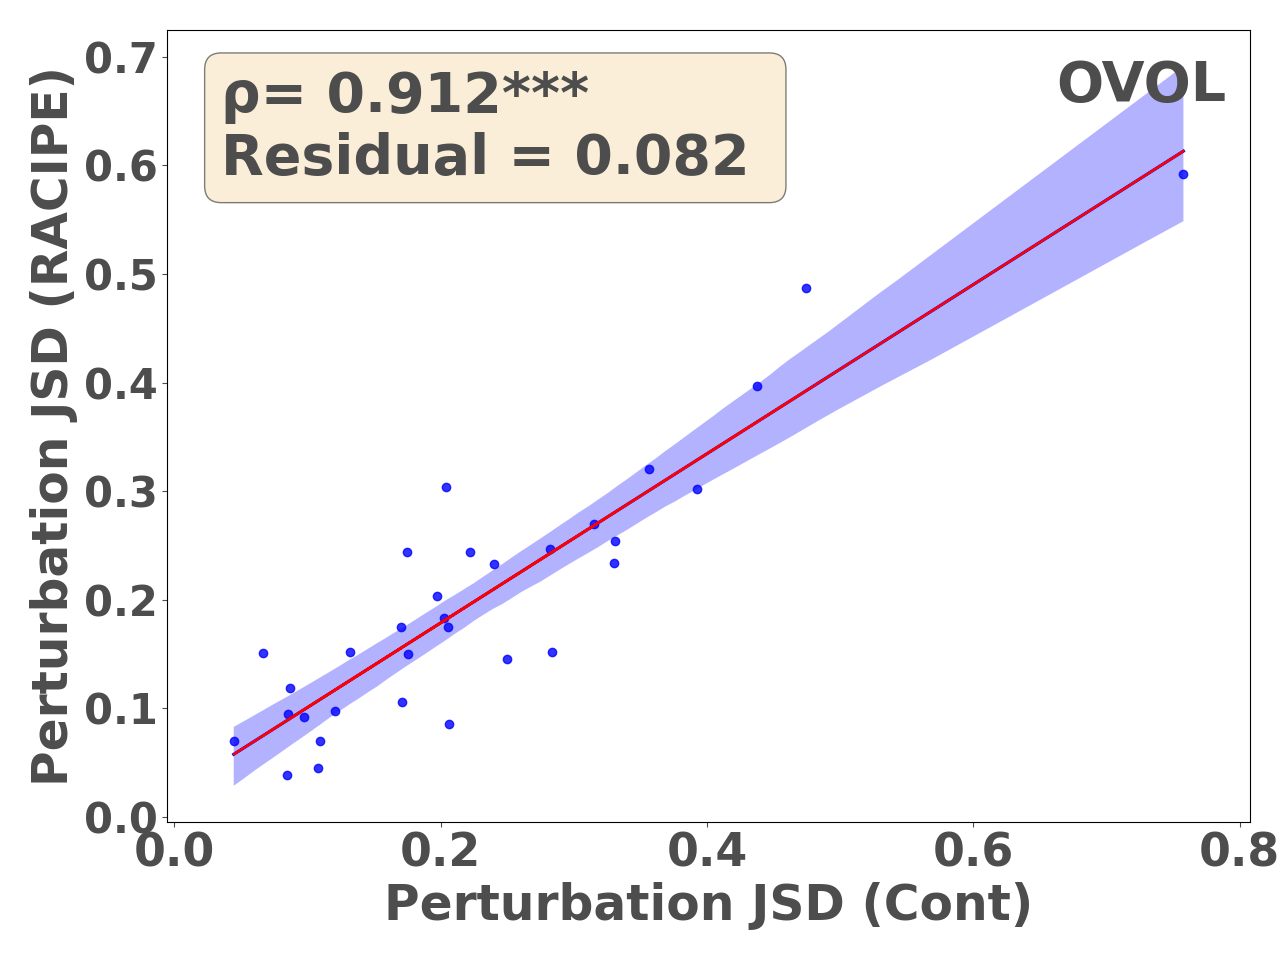
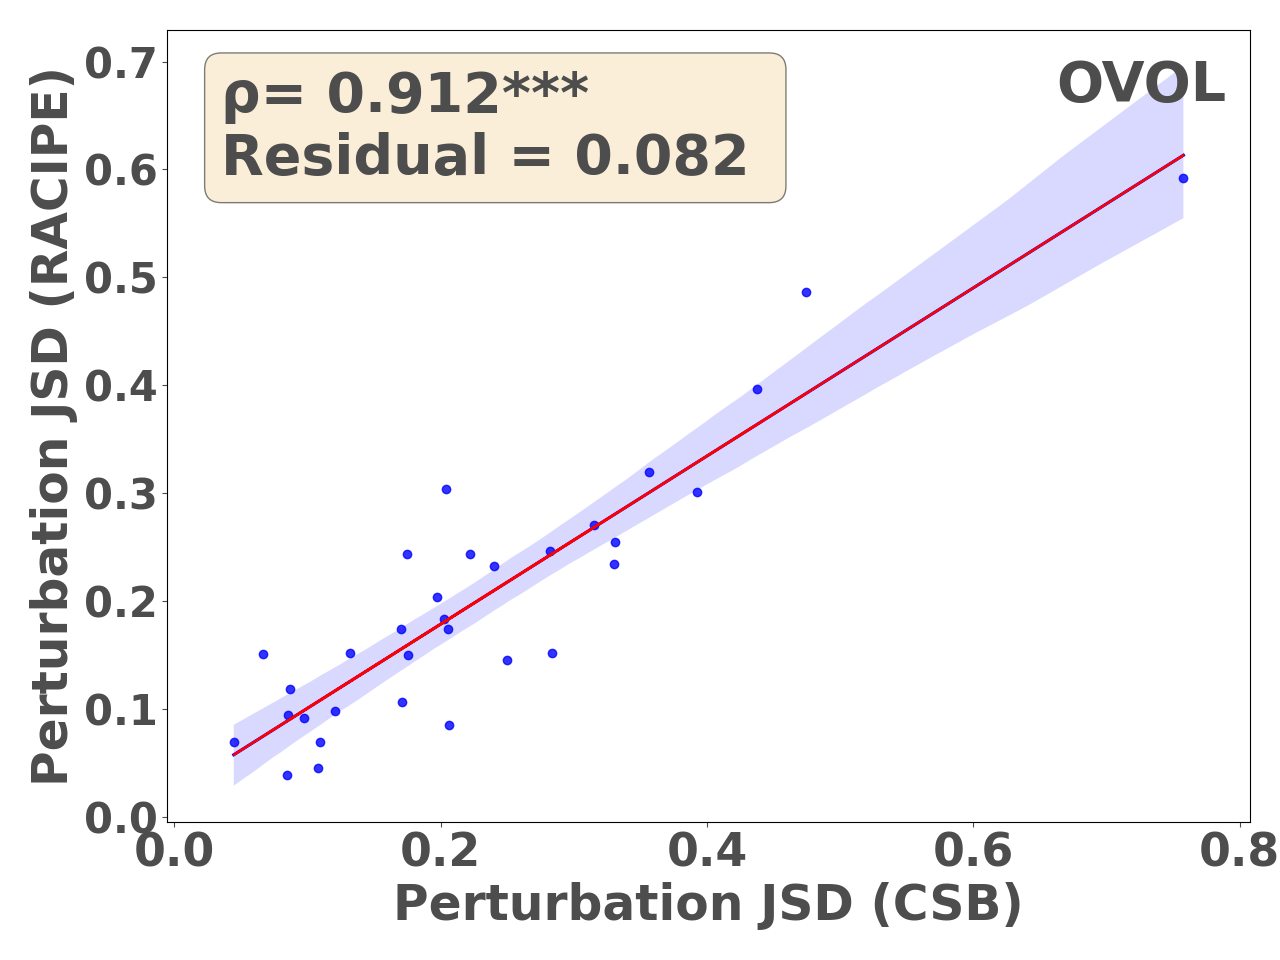
fixed figures

diff --git a/Fig3/BoolvsRacipe_CorrelationPlots/grapher_seaborn.py b/Fig3/BoolvsRacipe_CorrelationPlots/grapher_seaborn.py
@@ -25,6 +25,15 @@ print(topofiles)
 version='cont' # bool / cont
 Version = version
 
+versioncsb = 0
+
+if(version == 'cont'):
+    versioncsb = 'CSB'
+else:
+    versioncsb = 'Bool'
+
+
+
 def FixCase(st):
     return ' '.join(''.join([w[0].upper(), w[1:].lower()]) for w in st.split())
 
@@ -64,7 +73,7 @@ for i in range(0, len(topofiles)):
     
     seagraph = sns.regplot(booljsd,racjsd, color ='blue')
     
-    xlabel1 = "Perturbation JSD ({})".format(FixCase(Version))
+    xlabel1 = "Perturbation JSD ({})".format(versioncsb)
     ylabel1= "Perturbation JSD (RACIPE)"
     #title1 = "{}   ρ= {:.3f}   Residual = {:.3f} ".format(topofiles[i],corr, res[0])
     if(topofiles[i] != 'OVOL2'):

diff --git a/Fig2/Kinetic_Lineplots_and_Insets/plot_supp.py b/Fig2/Kinetic_Lineplots_and_Insets/plot_supp.py
@@ -72,7 +72,7 @@ for nn in topofiles:
     plt.xlabel("Multiplication factor for maximum range\n({})".format(nn), fontsize=15*r,  fontweight = "bold", c='0.3')
     plt.ylabel("JSD from WT", fontsize=15*r, fontweight = "bold", c='0.3')
     #plt.title("{}\n\n\n".format(nn), fontweight = "bold", c='0.3')
-    plt.ylim([0, 0.5])
+ 
     
     if(nn!= 'NRF2'):
         legend = plt.legend(legendarr, frameon = False)
